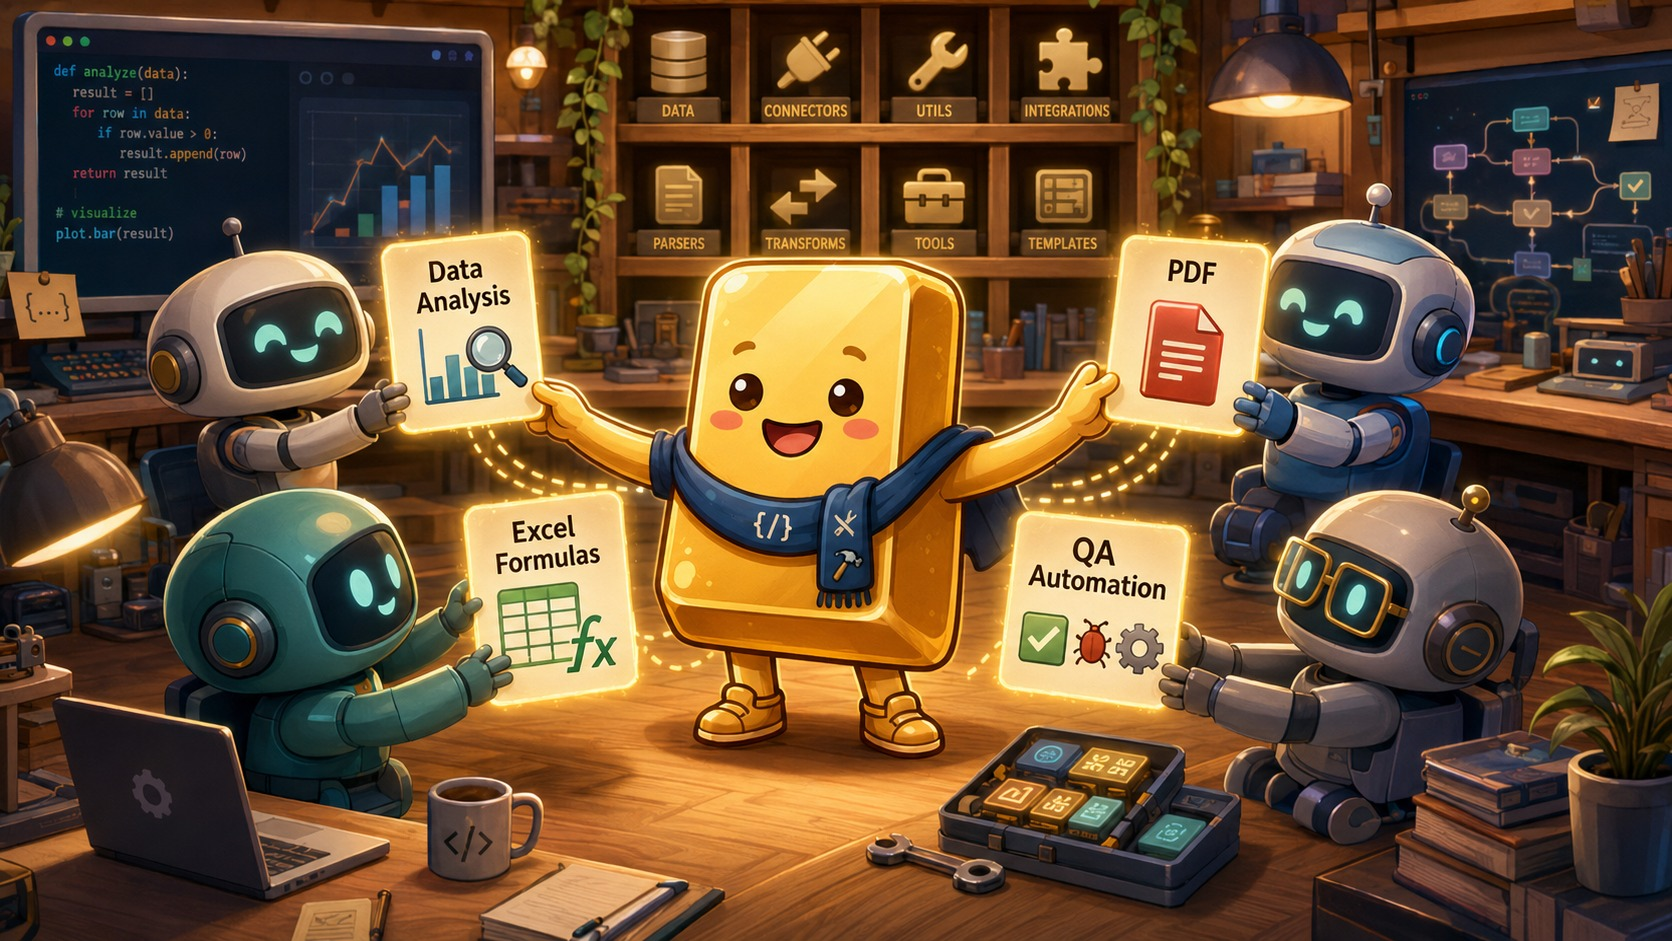
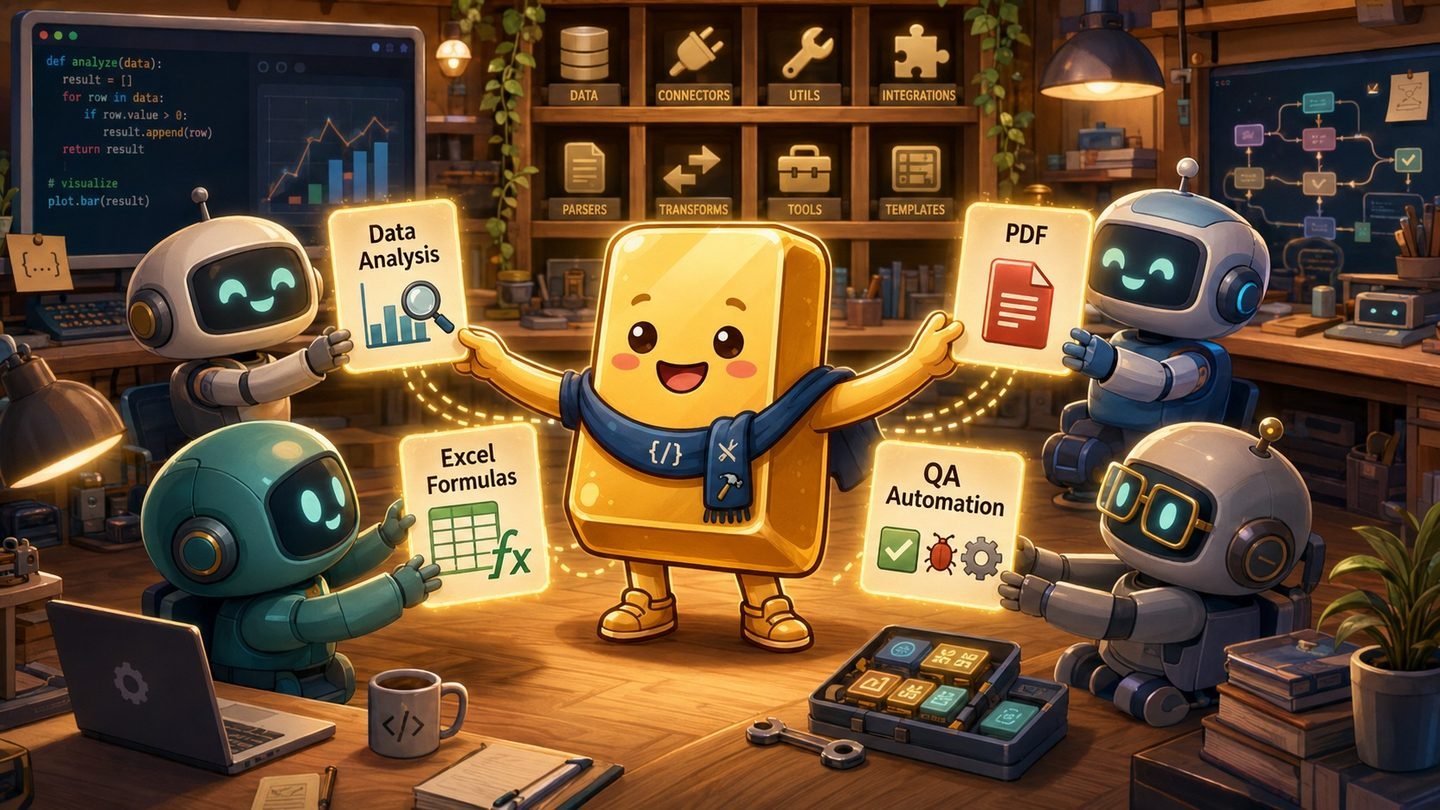
docs: shrink images and bring docs current with the refactor
Image weight:
- Resize docs/ingot.jpg (1672x941 -> 1440x810), 421KB -> 229KB.
- Recompress the three UI screenshots to WebP at 1600px, 1.26MB -> 0.28MB
  (-78%); update tutorial.md references.

Doc currency (post create_skill removal / Qwen3 embedder / SkillOpt loop):
- how-it-works.md: "six tools" -> "five" (create_skill is gone); fix image path.
- ARCHITECTURE.md + optimize/ab.py docstring: body pass is optimize/skillopt_loop.py
  (not the nonexistent bestofn.py); correct the OPTIMIZE_STRATEGY/removed-flag wording.
- SECURITY.md: UI now ships a password gate (default admin/ingot) plus optional OIDC;
  the audit actor is the authenticated identity, not always local-operator.
- configuration.md: document AUTH_MODE, OIDC pointer, EMBED_ONNX_FILE, LOCAL_TRACE_*.
- security.md: Langfuse stack is now opt-in under --profile langfuse.
- sso.md: proposer route is /api/optimize/{skill}.
- tutorial.md: note the current AGENT_MODEL default (qwen/qwen3.6-27b).

Claude-Session: https://claude.ai/code/session_01URfKaRsuJqkcVQPkHzxKfP

diff --git a/optimize/ab.py b/optimize/ab.py
@@ -1,7 +1,7 @@
 """Generate a candidate change for one skill and produce the evidence a reviewer needs.
 
-The candidate search (optimize.bestofn) turns the skill's components into a challenger on the train
-tasks. Champion and challenger then run through the full agent with a local `route_and_load` on the
+The candidate search (optimize.skillopt_loop, driven per-component by `_greedy_search`) turns the
+skill's components into a challenger on the train tasks. Champion and challenger then run through the full agent with a local `route_and_load` on the
 held-out tasks; each variant is a Langfuse dataset run (side-by-side in the UI) when the stack is
 up. The result is a quarantined record in runs/pending/<skill>.json plus a portable evidence bundle
 in runs/evidence/. Nothing here activates anything: promotion is a human action in the UI.

diff --git a/SECURITY.md b/SECURITY.md
@@ -15,9 +15,12 @@ See [ARCHITECTURE.md](ARCHITECTURE.md) for component flows, stores, invariants, 
 
 Ingot is a local development system, not a hardened multi-tenant service.
 
-- MCP and change-control UI endpoints have no built-in authentication. Docker publishes them on
-  `127.0.0.1` by default. Add authenticated transport before exposing them to a network. Anyone who
-  can reach the UI can approve a change or roll a skill back.
+- The MCP endpoints have no built-in authentication; Docker publishes them on `127.0.0.1` by
+  default, so add authenticated transport before exposing them to a network. The change-control UI
+  has a built-in password gate (HTTP Basic, default `admin`/`ingot` under Docker) and an optional
+  Sign in with Google mode (OIDC + roles, `AUTH_MODE=oidc`; see [SSO](docs/sso.md)). In the
+  zero-config `open` mode it is unauthenticated, so anyone who can reach it can approve a change or
+  roll a skill back.
 - Candidate generation only creates quarantined pending records. A normal application flow can
   activate a rewrite only through an explicit approval action in the UI; reviewers own every
   activation decision.
@@ -43,10 +46,11 @@ Approval and rollback actions write metadata-only records to `runs/approval-audi
 records provide local accountability, not tamper-proof audit storage. Forward them to an append-only
 system if regulatory or multi-user assurance is required.
 
-Every record's `actor` is the constant `local-operator`. The local UI has no identity or
-authentication, so the trail can record that a local operator approved a change, never who did.
-Attributing a decision to a person requires an authenticating proxy in front of the UI and an
-identity carried into the record, neither of which Ingot provides.
+Each record's `actor` is the identity of the approver: the constant `local-operator` in the
+zero-config `open` mode, the HTTP Basic username when the LAN password gate is enabled
+(`ui/auth.py`), or the signed-in email under Sign in with Google (`AUTH_MODE=oidc`, see
+[SSO](docs/sso.md)). In `open` mode the trail can record only that *a* local operator approved a
+change, not who; enabling the password or OIDC gate attributes each decision to a person.
 
 The review surface reads recorded evidence bundles through one read-only endpoint. It opens only
 the path a pending record wrote, resolves it, and refuses anything that lands outside

diff --git a/docs/configuration.md b/docs/configuration.md
@@ -15,6 +15,7 @@ Set in `.env` (never committed):
 | `MIN_SCORE` | `0.53` | at/above: routable match; below: `related` band or novel. Calibrated to `EMBED_MODEL` (0.65 for bge-small) |
 | `RELATED_SCORE` | `0.37` | floor of the `related` band; below it a task is novel (weak/strong escalation). Calibrated to `EMBED_MODEL` (0.45 for bge-small) |
 | `EMBED_MODEL` | `onnx-community/Qwen3-Embedding-0.6B-ONNX` | router embedding model (q4 ONNX, ~15 ms/query on CPU; +7 top-1 over bge-small on a 297-query eval). Any fastembed name also works, but recalibrate the three score thresholds with it. Keep in sync with the Dockerfile's build arg |
+| `EMBED_ONNX_FILE` | `onnx/model_q4.onnx` | which ONNX weight file to load inside the `EMBED_MODEL` repo; only relevant for ONNX exports that ship multiple quantizations |
 | `BODY_TARGET_CHARS` | `6000` | length penalty starts past this body size |
 | `LENGTH_PENALTY` | `0.10` | max score subtracted for a very long body |
 | `LOOP_HEALTH_THRESHOLD` | `0.7` | the background loop proposes a change for skills whose mined mean score is below this |
@@ -34,13 +35,20 @@ Set in `.env` (never committed):
 | `SANDBOX_IMAGE` | `ingot-optimize` | image sandbox containers run |
 | `SANDBOX_RUNTIME` | (none) | optional container runtime, e.g. `runsc` for gVisor |
 | `TRACES_FILE` | `runs/traces.jsonl` | local JSONL trace store: written by every agent run, read by `optimize-mine` when Langfuse is unreachable, so mining works without the tracing stack |
+| `LOCAL_TRACE_MAX_BYTES` / `LOCAL_TRACE_BACKUPS` | `10485760` (10 MiB) / `3` | size-based rotation of the local trace store: roll `TRACES_FILE` past the byte cap, keeping this many `.1`…`.N` backups (`0` bytes disables size rotation) |
+| `LOCAL_TRACE_MAX_AGE_DAYS` | `30` | age-based pruning: drop rotated trace backups older than this many days (`0` disables age pruning) |
 | `SKILL_USAGE_FILE` | `runs/skill_usage.json` | per-skill load counter: the MCP server increments it on every `get_skill` / `route_and_load` match, and the UI shows each skill's `uses` |
-| `AUTH_USER` / `AUTH_PASSWORD` | `admin` / `ingot` (compose) | UI login (HTTP Basic). docker-compose sets these so the shared UI is gated by default, **change `AUTH_PASSWORD`** before exposing it; set `AUTH_PASSWORD=` empty to run open |
-| `AUTH_FILE` | `runs/auth.json` | additional UI users (salted PBKDF2) for more than one login; add with `python -m ui.auth add <name>`. Absent + no `AUTH_*` env = UI open (bare local default) |
+| `AUTH_MODE` | `password` (compose) | UI auth mode: `password` (HTTP Basic), `oidc` (Sign in with Google + roles, see [SSO](sso.md)), or `open` (no auth). When unset it is inferred as `password` if `AUTH_*` creds or an auth file exist, else `open`; set `AUTH_MODE=open` to force the UI open |
+| `AUTH_USER` / `AUTH_PASSWORD` | `admin` / `ingot` (compose) | UI login for `password` mode. docker-compose sets these so the shared UI is gated by default, **change `AUTH_PASSWORD`** before exposing it |
+| `AUTH_FILE` | `runs/auth.json` | additional `password`-mode users (salted PBKDF2) for more than one login; add with `python -m ui.auth add <name>` |
 | `MAX_RUN_USD` | (none) | hard spend cap per optimize run: the ledger estimates cost from OpenRouter list prices after every call and aborts the run past the cap |
 | `LANGFUSE_BASE_URL` | `http://langfuse-web:3000` | Langfuse endpoint every service traces to and mines from |
 | `LANGFUSE_PUBLIC_KEY` / `LANGFUSE_SECRET_KEY` | `pk-lf-local-demo` / `sk-lf-local-demo` | project keys; defaults are the bundled stack's local demo literals |
 | `LANGFUSE_PUBLIC_URL` | `http://localhost:3100` | where your browser reaches Langfuse (UI trace links) |
+
+OIDC/SSO variables (`OIDC_ISSUER`, `OIDC_CLIENT_ID`, `OIDC_CLIENT_SECRET`, `OIDC_REDIRECT_URL`,
+`OIDC_ALLOWED_DOMAINS`, `OIDC_ROLE_MAP`, `OIDC_ROLE_CLAIM`, `SESSION_SECRET`) are covered in
+[Sign in with Google (SSO)](sso.md).
 
 Evidence-gate knobs (`PROMOTE_MIN_MARGIN`, `PROMOTE_MIN_SAMPLES`, `COLLISION_SCORE`,
 `JUDGE_MODELS`) are covered in [The evidence gate](evidence-gate.md).

diff --git a/ARCHITECTURE.md b/ARCHITECTURE.md
@@ -47,15 +47,18 @@ Optimization proposes changes; it never makes them. It is off the review path an
 in the background (`optimize.loop`) or on demand from the UI.
 
 Mining selects difficult, semantically diverse failures from real traces. The body pass runs one
-candidate search, `optimize/bestofn.py`: parallel best-of-N authored from the seed's judged failures,
-then successive halving over the train tasks. The description pass (`optimize/routing.py`) scores
+candidate search, `optimize/skillopt_loop.py` (SkillOpt's reflective training loop, driven
+per-component by `_greedy_search` in `optimize/ab.py`): bounded patch edits reflected from the seed's
+judged failures and prior rejected edits, accepted only against a held-out strictly-improving gate.
+The description pass (`optimize/routing.py`) scores
 candidate descriptions with the real embedding router and uses GEPA only for its reflection step.
 Both passes end at a quarantined pending record and an evidence bundle under `runs/evidence/`.
 
 There is one candidate search, by design. A second, sequential GEPA body loop was removed: it
 optimized the same objective at roughly twenty times the cost, was reachable only through an opt-in
-flag, and had no test coverage of its own. `OPTIMIZE_STRATEGY` is no longer read; a run that finds it
-set says so instead of silently ignoring it. The scripts pass (`--scripts`) optimizes bundled
+flag, and had no test coverage of its own. `OPTIMIZE_STRATEGY` is no longer read, and the removed
+pass flags (`--strategy`, `--gepa`, `--skip-gepa`, `--candidates`) fail the argument parse rather than
+being silently ignored. The scripts pass (`--scripts`) optimizes bundled
 `scripts/` files, but only when the skill's holdout carries execution-grounded `check:` assertions,
 since the judge alone cannot tell a broken script from a working one; when it runs, both the
 candidate rollouts and the A/B serve the assembled skill (body plus files), so a rewritten file is

diff --git a/docs/tutorial.md b/docs/tutorial.md
@@ -19,7 +19,7 @@ runs the agent once on a demo task. The UI lists every skill the router serves, 
 content-hash revision and a load count (how often it has actually been served), and surfaces
 anything awaiting review:
 
-![Change-control UI, the skills library, with revisions and load counts](ui-home.png)
+![Change-control UI, the skills library, with revisions and load counts](ui-home.webp)
 
 No skills are committed to this repo. `fetch_skills.sh` clones each source, copies its skills in,
 and deletes the clone, so everything stays under its own upstream license. Without an API key
@@ -50,8 +50,9 @@ followed it. The `@…` suffix is the skill's content-hash revision, which also 
 a tag. Unconstrained suggestions never control the serving model or loaded instructions.
 A routed task runs on the cheap `AGENT_MODEL` because the skill carries the method; only truly
 novel tasks escalate to `STRONG_MODEL` (step 10). Steps 2 to 4 were recorded on Fireworks model
-IDs and steps 5 to 8 on the OpenRouter defaults (`qwen/qwen3-32b` serving); the `SERVING MODEL`
-line always shows whatever `AGENT_MODEL` you configure. The run's full trace just landed in
+IDs and steps 5 to 8 on the OpenRouter `AGENT_MODEL` default at recording time, `qwen/qwen3-32b`
+(the current default is `qwen/qwen3.6-27b`); the `SERVING MODEL` line always shows whatever
+`AGENT_MODEL` you configure. The run's full trace just landed in
 `runs/traces.jsonl`; that local store is what the miner reads in step 4.
 
 ### 3. Write a first-draft skill and watch it under-deliver
@@ -221,13 +222,13 @@ carries the champion-vs-challenger judge scores, the before/after token shift, t
 its warnings, the recorded evidence bundle, and the component diff, here the red lines are the v3
 guidance SkillOpt removed and the green lines are the v4 body it wrote:
 
-![Review card, the tailwind v3→v4 challenger, promotable with warnings](ui-review.png)
+![Review card, the tailwind v3→v4 challenger, promotable with warnings](ui-review.webp)
 
 **Approve** doesn't promote in one click: it opens a comparison panel with the model breakdown,
 the before/after token usage, and the per-task judge scores, and a final **Approve & promote** that
 reveals a separate **Confirm**, so a promotion is deliberate.
 
-![Comparison panel, model, tokens, and judge scores before Confirm](ui-compare.png)
+![Comparison panel, model, tokens, and judge scores before Confirm](ui-compare.webp)
 
 **Approve & promote** verifies the evidence still matches the on-disk champion, snapshots the prior
 revision into `runs/revisions/tailwind/<revision>/`, swaps the challenger into `skills/tailwind/` by

diff --git a/docs/security.md b/docs/security.md
@@ -18,8 +18,9 @@ Three properties, all defaults, none optional:
   retains prompts. Provider-direct endpoints work too: Fireworks AI, for example, is
   [zero-data-retention by default](https://docs.fireworks.ai/guides/security_compliance/data_handling)
   for open models on serverless, under its own retention policy.
-- **Self-hosted tracing.** Langfuse (with its Postgres, ClickHouse, and MinIO) runs inside the
-  compose stack. Traces, skill contents, and eval outputs never leave your machine.
+- **Self-hosted tracing.** Traces default to a local JSONL store on your machine; the full Langfuse
+  stack (Postgres, ClickHouse, MinIO) runs self-hosted inside the compose stack under
+  `--profile langfuse`. Either way, traces, skill contents, and eval outputs never leave your machine.
 - **Localhost only.** No service is reachable off the machine (see
   [Network exposure](#network-exposure)).
 

diff --git a/docs/how-it-works.md b/docs/how-it-works.md
@@ -1,10 +1,10 @@
 # How it works
 
 <p align="center">
-  <img src="docs/ingot.jpg" alt="Ingot, the mascot, handing skills out to AI agents" width="720">
+  <img src="ingot.jpg" alt="Ingot, the mascot, handing skills out to AI agents" width="720">
 </p>
 
-- **`mcp_server/`**: [FastMCP](https://github.com/jlowin/fastmcp) v3 server (HTTP transport), six tools:
+- **`mcp_server/`**: [FastMCP](https://github.com/jlowin/fastmcp) v3 server (HTTP transport), five tools:
   - `suggest_skills(task, k)`: routable matches by embedding similarity (Qwen3-Embedding-0.6B
     q4 on CPU ONNX Runtime, no GPU; any fastembed model via `EMBED_MODEL`); near-misses come back flagged
     `related`; empty = truly novel

diff --git a/docs/sso.md b/docs/sso.md
@@ -18,7 +18,7 @@ This is an opt-in deployment profile. The zero-config local default and the LAN 
   | role | may |
   |------|-----|
   | `viewer` | read the board, pending evidence, history |
-  | `proposer` | trigger candidate generation (`/api/optimize`) |
+  | `proposer` | trigger candidate generation (`/api/optimize/{skill}`) |
   | `approver` | promote, reject, roll back |
   | `admin` | the above, plus configuration |
 